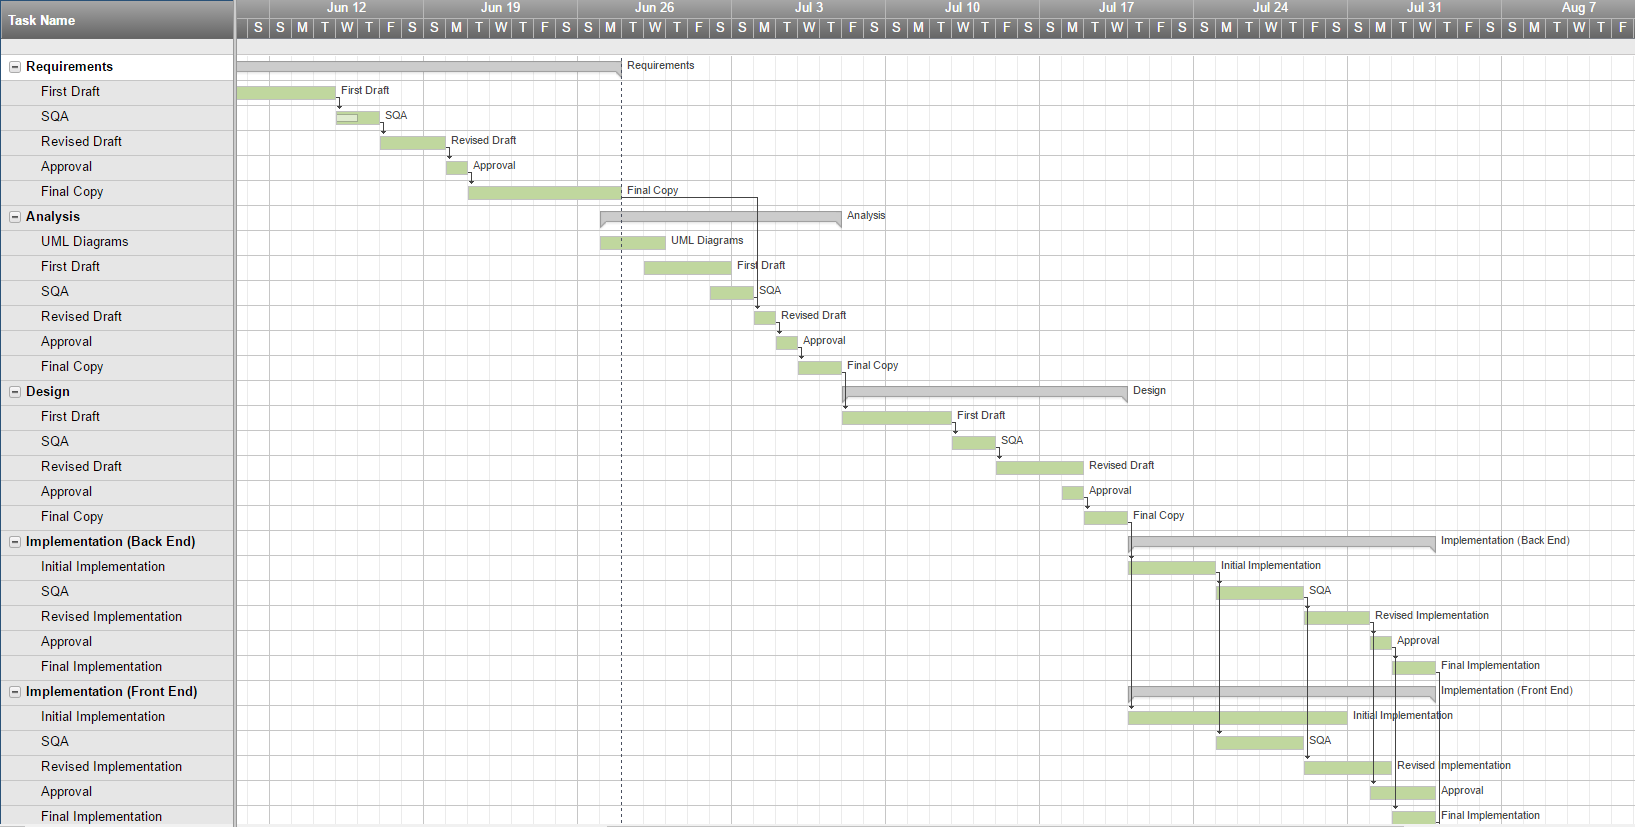
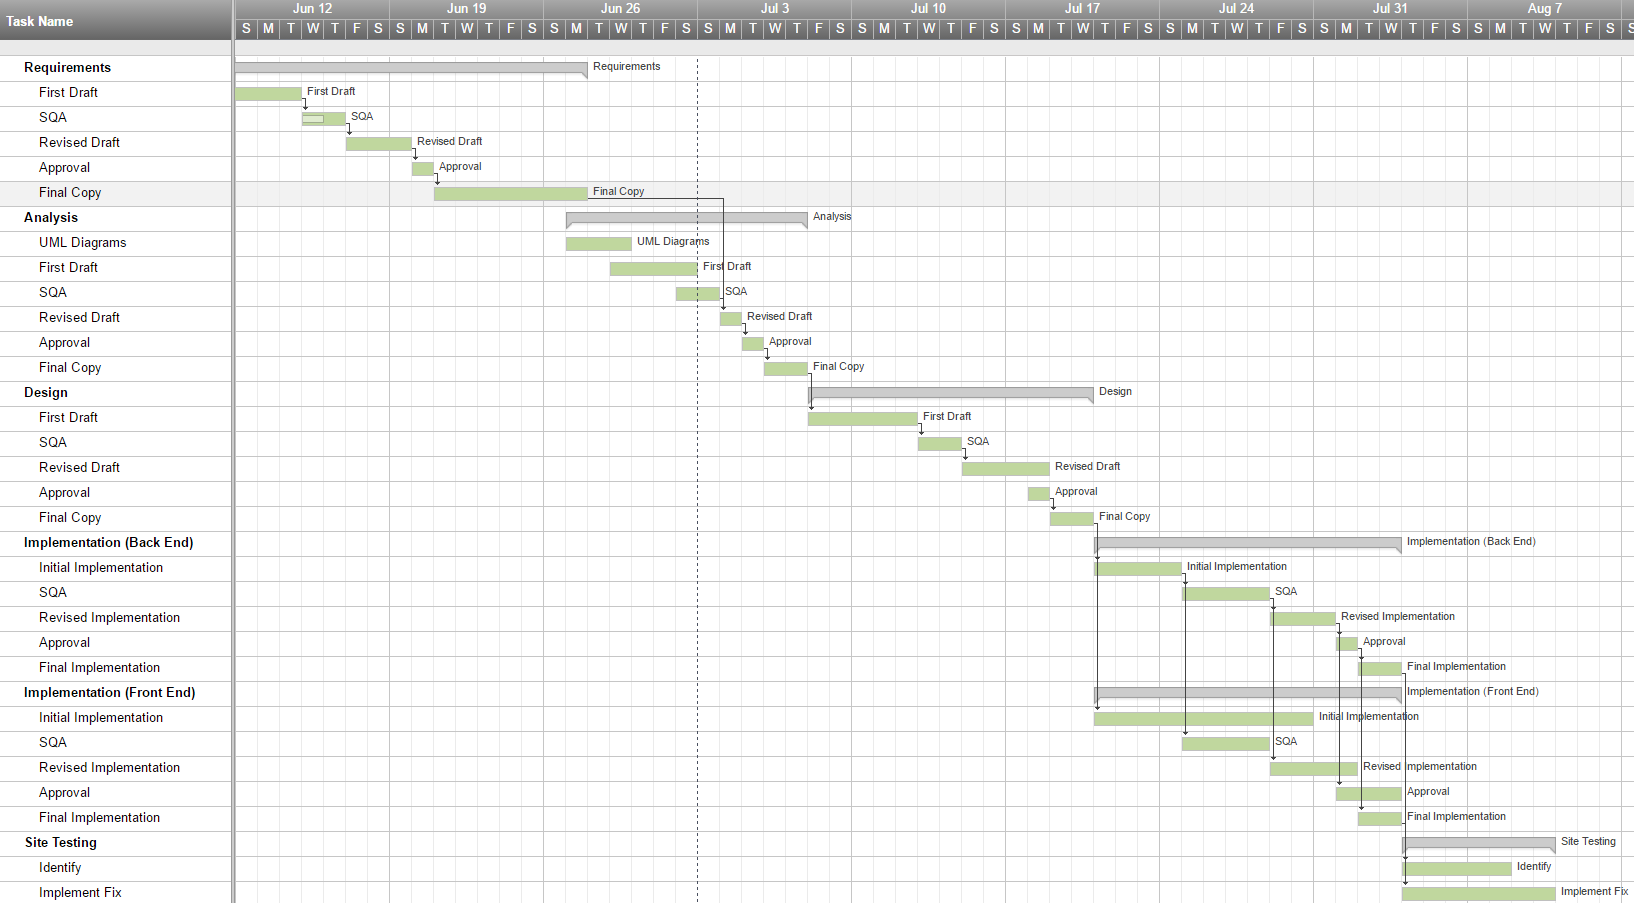
Updated Gantt chart - image was missing lowest 2 lines

Changed region(s): [[0.0, 0.0, 1.0, 1.0], [0.3745, 0.8464, 0.4058, 0.8767]]

diff --git a/Requirements and Analysis/Requirements/UPOD RD - Front End.html b/Requirements and Analysis/Requirements/UPOD RD - Front End.html
@@ -267,7 +267,7 @@
 								<li id="subcategoryHeading">View <i>Articles</i> or <i>Categories</i> </li>
 								<li id="subcategoryHeading">Interact with <i>Diagrams</i></li>
 					<h4><a name="Use Cases">2.2.2 Use Cases</a></h4>
-					<img src="../../Diagrams/UPOD Use Cases.png" alt="Use Cases" style="max-width:50%;max-height:50%;display:block;margin-left:auto;margin-right:auto;"/>
+					<img src="../../Diagrams/UPOD Use Cases.png" alt="Use Cases" style="max-width:50%;max-height:50%;"/>
 				<h3><a name="Constraints">2.3 Constraints</a></h3>
 					<li id="categoryHeading">UPOD Web Design has a hard deadline by the end of the 2016 Spring Term (August 10, 2016).   </li>
 					<li id="categoryHeading">The UPOD budget is $0, so any software/frameworks must be free to use. </li>
